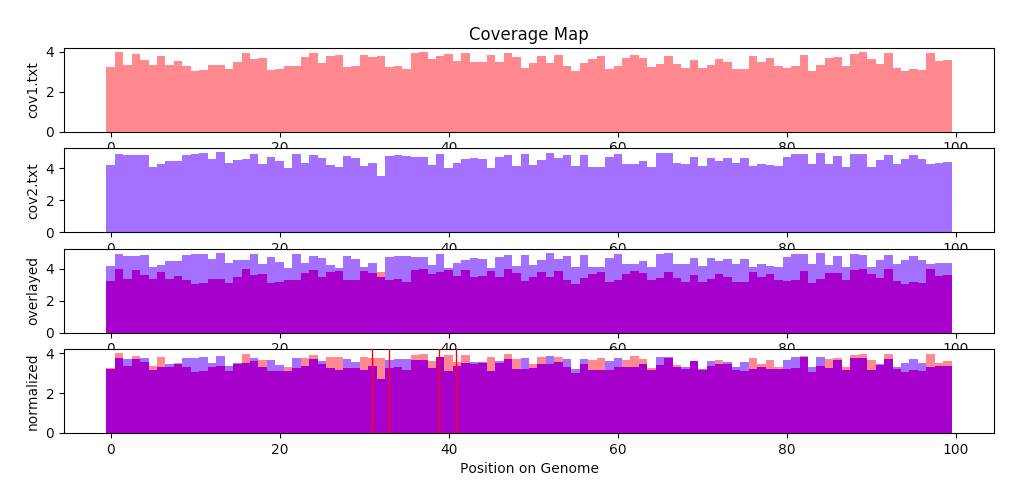
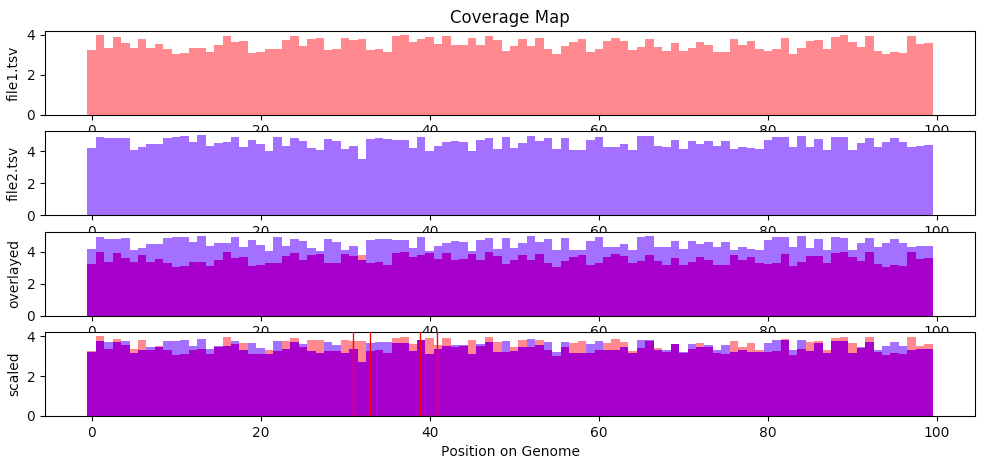
Edited readme

Changed region(s): [[0.0, 0.03, 0.999, 0.9614], [0.4541, 0.9614, 0.6054, 0.9914]]

diff --git a/README.md b/README.md
@@ -16,7 +16,7 @@ python covpare.py FILE1 FILE2
 ## Testing
 To test whether your covpare install is working correctly, you can run the command:
 ```
-python covpare.py tests/coverage1.tsv tests/coverage2.tsv
+python covpare.py tests/file1.tsv tests/file2.tsv
 ```
 
 
